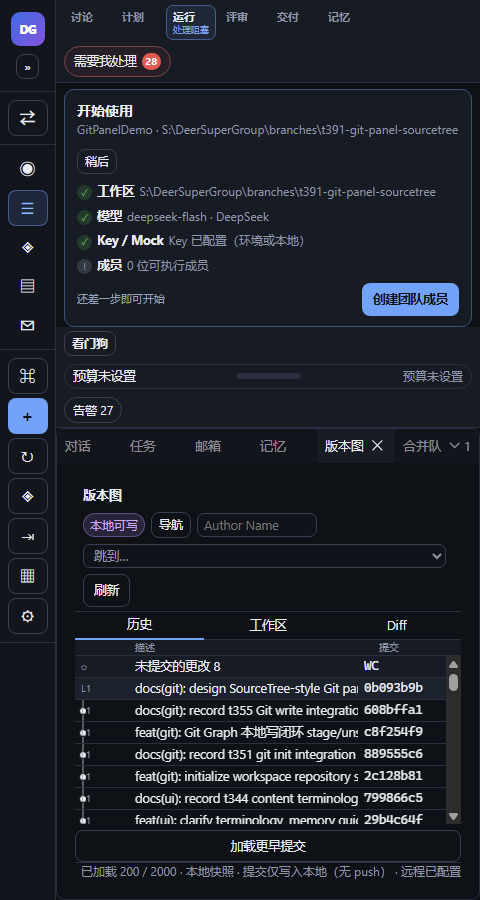
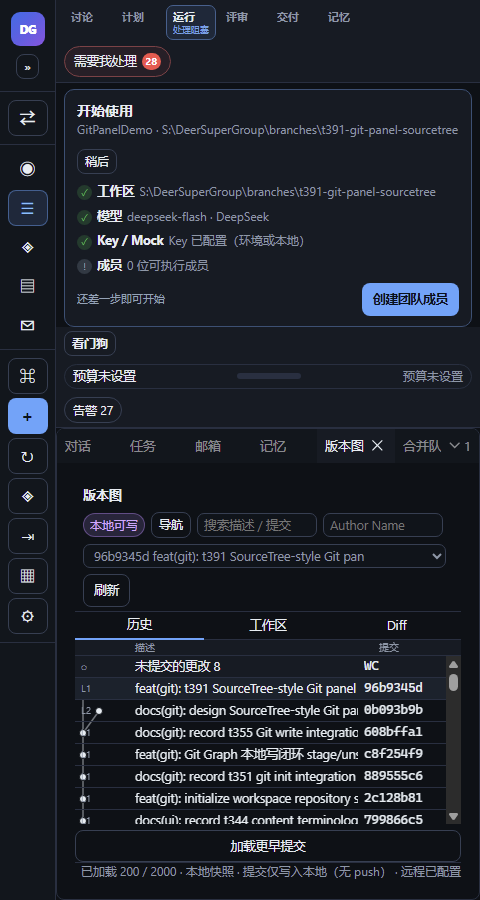
fix(git): t398 fix sort lanes and visible keyboard
Hides lane SVG/markers under non-topology date sort, binds commit search input, uses filtered commits with clamped Home/End/Arrow navigation, follows visible selection, and adds 480 nav-open screenshot/signature.

diff --git a/src/git/ui/GitGraphPanel.tsx b/src/git/ui/GitGraphPanel.tsx
@@ -72,6 +72,7 @@ export default function GitGraphPanel({
   const [navOpen, setNavOpen] = useState(false);
   const [refSearch, setRefSearch] = useState("");
   const filterInputRef = useRef<HTMLInputElement | null>(null);
+  const commitSearchRef = useRef<HTMLInputElement | null>(null);
   const [refFilter, setRefFilter] = useState<string | null>(null);
   const [loading, setLoading] = useState(true);
   const [busy, setBusy] = useState(false);
@@ -368,29 +369,37 @@ export default function GitGraphPanel({
     return result;
   }, [graph, filter, authorSearch, sortMode]);
 
-  const commitBySha = useMemo(() => {
-    const map = new Map<string, (NonNullable<typeof graph>["commits"][number])>();
-    for (const commit of graph?.commits ?? []) map.set(commit.sha, commit);
-    return map;
-  }, [graph]);
+  // t398：过滤/排序后若选中提交已不可见，Inspector 跟随第一个可见提交，避免显示被过滤内容。
+  useEffect(() => {
+    if (commits.length === 0) return;
+    if (commits.some((commit) => commit.sha === selectedSha)) return;
+    const first = commits[0];
+    setSelectedSha(first.sha);
+    setJumpSha(first.sha);
+    void loadCommit(first.sha);
+  }, [commits, selectedSha, loadCommit]);
 
   const rows = useMemo(() => {
     return layoutGraph({ commits, maxLanes: 16 }).rows;
   }, [commits]);
+  // t398：日期排序不是拓扑顺序，lane 坐标无意义；只保留表格，不渲染假 lane。
+  const showLanes = sortMode === "topology";
 
   const onGraphKey = (event: React.KeyboardEvent<HTMLDivElement>) => {
-    if (!graph) return;
-    const index = Math.max(0, graph.commits.findIndex((commit) => commit.sha === selectedSha));
+    if (!graph || commits.length === 0) return;
+    const found = commits.findIndex((commit) => commit.sha === selectedSha);
+    const index = found >= 0 ? found : 0;
     let next = index;
-    if (event.key === "ArrowDown") next = Math.min(graph.commits.length - 1, index + 1);
+    if (event.key === "ArrowDown") next = Math.min(commits.length - 1, index + 1);
     else if (event.key === "ArrowUp") next = Math.max(0, index - 1);
     else if (event.key === "Home") next = 0;
-    else if (event.key === "End") next = graph.commits.length - 1;
+    else if (event.key === "End") next = commits.length - 1;
     else return;
     event.preventDefault();
-    const commit = graph.commits[next];
+    const commit = commits[next];
     if (commit) {
       setSelectedSha(commit.sha);
+      setJumpSha(commit.sha);
       rowRefs.current.get(commit.sha)?.focus();
     }
   };
@@ -522,6 +531,17 @@ export default function GitGraphPanel({
             </select>
           </label>
           <label className="git-st-search">
+            <span className="sr-only">搜索描述或提交</span>
+            <input
+              ref={commitSearchRef}
+              type="search"
+              value={filter}
+              placeholder="搜索描述 / 提交"
+              aria-label="搜索描述或提交"
+              onChange={(event) => setFilter(event.target.value)}
+            />
+          </label>
+          <label className="git-st-search">
             <span className="sr-only">Author Name 搜索</span>
             <input
               type="search"
@@ -570,7 +590,7 @@ export default function GitGraphPanel({
       ) : null}
       {loading && !graph ? <p className="git-graph-loading" role="status">加载版本图…</p> : null}
 
-      <div className={`git-st-layout ${navOpen ? "nav-open" : ""}`}>
+      <div className={`git-st-layout ${navOpen ? "nav-open" : ""} ${showLanes ? "" : "table-only"}`}>
         <aside
           className="git-st-nav"
           id="git-st-nav"
@@ -594,7 +614,7 @@ export default function GitGraphPanel({
             <button
               type="button"
               className={navFocus === "search" ? "active" : ""}
-              onClick={() => { setNavFocus("search"); filterInputRef.current?.focus(); }}
+              onClick={() => { setNavFocus("search"); commitSearchRef.current?.focus(); }}
             >
               Search
             </button>
@@ -697,37 +717,39 @@ export default function GitGraphPanel({
               <span className="git-st-col-author muted tiny">—</span>
               <span className="git-st-col-commit mono">WC</span>
             </button>
-            <div className="git-st-rows">
-              <svg
-                className="git-st-lanes"
-                aria-hidden="true"
-                width={Math.max(40, (graph?.layout.laneCount ?? 1) * 16 + 12)}
-                height={Math.max(0, rows.length * 22)}
-              >
-                {rows.map((row, rowIndex) => (
-                  <g key={row.sha}>
-                    {row.parentLanes.map((parent) => {
-                      const parentIndex = rows.findIndex((item) => item.sha === parent.sha);
-                      return (
-                        <line
-                          key={`${row.sha}-${parent.sha}`}
-                          x1={8 + row.lane * 16}
-                          y1={rowIndex * 22 + 11}
-                          x2={8 + parent.lane * 16}
-                          y2={parentIndex >= 0 ? parentIndex * 22 + 11 : rows.length * 22}
-                          className={`git-edge color-${row.color % 10}`}
-                        />
-                      );
-                    })}
-                    <circle
-                      cx={8 + row.lane * 16}
-                      cy={rowIndex * 22 + 11}
-                      r={3.5}
-                      className={`git-node color-${row.color % 10} ${row.sha === selectedSha ? "selected" : ""}`}
-                    />
-                  </g>
-                ))}
-              </svg>
+            <div className={`git-st-rows ${showLanes ? "" : "is-table-only"}`}>
+              {showLanes ? (
+                <svg
+                  className="git-st-lanes"
+                  aria-hidden="true"
+                  width={Math.max(40, (graph?.layout.laneCount ?? 1) * 16 + 12)}
+                  height={Math.max(0, rows.length * 22)}
+                >
+                  {rows.map((row, rowIndex) => (
+                    <g key={row.sha}>
+                      {row.parentLanes.map((parent) => {
+                        const parentIndex = rows.findIndex((item) => item.sha === parent.sha);
+                        return (
+                          <line
+                            key={`${row.sha}-${parent.sha}`}
+                            x1={8 + row.lane * 16}
+                            y1={rowIndex * 22 + 11}
+                            x2={8 + parent.lane * 16}
+                            y2={parentIndex >= 0 ? parentIndex * 22 + 11 : rows.length * 22}
+                            className={`git-edge color-${row.color % 10}`}
+                          />
+                        );
+                      })}
+                      <circle
+                        cx={8 + row.lane * 16}
+                        cy={rowIndex * 22 + 11}
+                        r={3.5}
+                        className={`git-node color-${row.color % 10} ${row.sha === selectedSha ? "selected" : ""}`}
+                      />
+                    </g>
+                  ))}
+                </svg>
+              ) : null}
               <div className="git-st-rows-list">
                 {commits.map((commit, index) => (
                   <button
@@ -752,7 +774,7 @@ export default function GitGraphPanel({
                     title={`${commit.subject}\n${commit.authorName} · ${commit.authorTime}`}
                   >
                     <span className="git-st-lane" aria-hidden="true">
-                      {rows[index] ? `L${rows[index]!.lane + 1}` : "·"}
+                      {showLanes && rows[index] ? `L${rows[index]!.lane + 1}` : ""}
                     </span>
                     <span className="git-st-subject ellipsis">
                       {commit.subject}

diff --git a/src/git/ui/GitGraphPanel.test.tsx b/src/git/ui/GitGraphPanel.test.tsx
@@ -703,4 +703,150 @@ describe("GitGraphPanel", () => {
       (globalThis as { window?: unknown }).window = previous;
     }
   });
+
+  it("t398 hides lanes under date sort and navigates only visible filtered commits", async () => {
+    const repo = {
+      workspaceId: "ws1",
+      workspacePath: "/tmp/repo",
+      root: "/tmp/repo",
+      headSha: "c".repeat(40),
+      branch: "main",
+      detached: false,
+      ahead: 0,
+      behind: 0,
+      baseBranch: "main",
+      remote: null,
+      shallow: false,
+      bare: false,
+      gitVersion: "2.40.0",
+      generatedAt: "2026-04-03T00:00:00Z",
+    };
+    const makeCommit = (shaChar: string, author: string, subject: string, time: string, parents: string[] = []) => ({
+      sha: shaChar.repeat(40),
+      shortSha: shaChar.repeat(8),
+      parents,
+      authorName: author,
+      authorTime: time,
+      committerTime: time,
+      subject,
+      refs: [],
+      lane: 0,
+      color: 0,
+      parentLanes: parents.map((sha, index) => ({ sha, lane: index + 1, kind: "merge" as const })),
+      openEdges: [],
+    });
+    const commits = [
+      makeCommit("a", "Mika", "feat: merge branch", "2026-04-03T10:00:00Z", ["b".repeat(40), "d".repeat(40)]),
+      makeCommit("b", "Ren", "fix: older", "2026-04-02T10:00:00Z"),
+      makeCommit("c", "Mika", "docs: newest", "2026-04-04T10:00:00Z"),
+    ];
+    const previous = (globalThis as { window?: unknown }).window;
+    (globalThis as { window?: unknown }).window = {
+      deer: {
+        gitRepo: async () => ({ ok: true, value: repo }),
+        gitGraph: async () => ({
+          ok: true,
+          value: {
+            repo,
+            commits,
+            refs: [],
+            graphVersion: "v1",
+            offset: 0,
+            limit: 200,
+            hasMore: false,
+            nextOffset: null,
+            totalLoaded: commits.length,
+            truncated: false,
+            layout: { laneCount: 3, maxLanes: 16, truncatedLanes: false },
+          },
+        }),
+        gitRefs: async () => ({ ok: true, value: { refs: [], worktrees: [], truncated: false } }),
+        gitCommit: async (_ws: string, sha: string) => ({
+          ok: true,
+          value: {
+            node: commits.find((commit) => commit.sha === sha) ?? commits[0],
+            body: "",
+            changedFiles: [],
+            stats: { files: 0, insertions: 0, deletions: 0 },
+            diff: { files: [], bytes: 0, truncated: false, binary: false, submodule: false },
+          },
+        }),
+        gitStatus: async () => ({
+          ok: true,
+          value: {
+            repo,
+            staged: [],
+            unstaged: [],
+            untracked: [],
+            conflicts: [],
+            submodules: [],
+            truncated: false,
+          },
+        }),
+        gitDiff: async () => ({ ok: false }),
+      },
+    };
+    try {
+      let renderer: ReturnType<typeof TestRenderer.create> | null = null;
+      await act(async () => {
+        renderer = TestRenderer.create(<GitGraphPanel workspaceId="ws1" />);
+        for (let index = 0; index < 8; index += 1) await Promise.resolve();
+      });
+      const root = renderer!.root;
+      const sort = root.findByProps({ "aria-label": "提交排序" });
+      await act(async () => {
+        (sort.props.onChange as (event: unknown) => void)({ target: { value: "date" } });
+        await Promise.resolve();
+      });
+      const dateJson = JSON.stringify(renderer!.toJSON());
+      expect(dateJson).not.toContain("git-st-lanes");
+      expect(dateJson).not.toMatch(/L[1-9]/);
+      const author = root
+        .findAllByType("input")
+        .find((input: any) => String(input.props["aria-label"]).includes("Author Name"));
+      await act(async () => {
+        (author!.props.onChange as (event: unknown) => void)({ target: { value: "Mika" } });
+        await Promise.resolve();
+      });
+      const listbox = root.findByProps({ role: "listbox" });
+      const options = () => root.findAllByProps({ role: "option" });
+      expect(options()).toHaveLength(2);
+      const selectedLabel = () =>
+        options().find((option: any) => option.props["aria-selected"])?.props["aria-label"];
+      await act(async () => {
+        listbox.props.onKeyDown({ key: "Home", preventDefault() {} });
+        await Promise.resolve();
+      });
+      expect(selectedLabel()).toContain("docs: newest");
+      await act(async () => {
+        listbox.props.onKeyDown({ key: "ArrowDown", preventDefault() {} });
+        await Promise.resolve();
+      });
+      expect(selectedLabel()).toContain("feat: merge branch");
+      await act(async () => {
+        listbox.props.onKeyDown({ key: "End", preventDefault() {} });
+        await Promise.resolve();
+      });
+      expect(selectedLabel()).toContain("feat: merge branch");
+      await act(async () => {
+        listbox.props.onKeyDown({ key: "ArrowDown", preventDefault() {} });
+        await Promise.resolve();
+      });
+      expect(selectedLabel()).toContain("feat: merge branch");
+
+      const search = root
+        .findAllByType("input")
+        .find((input: any) => input.props["aria-label"] === "搜索描述或提交");
+      await act(async () => {
+        (author!.props.onChange as (event: unknown) => void)({ target: { value: "" } });
+        (search!.props.onChange as (event: unknown) => void)({ target: { value: "older" } });
+        await Promise.resolve();
+      });
+      expect(JSON.stringify(renderer!.toJSON())).toContain("fix: older");
+      expect(JSON.stringify(renderer!.toJSON())).not.toContain("feat: merge branch");
+      renderer!.unmount();
+    } finally {
+      (globalThis as { window?: unknown }).window = previous;
+    }
+  });
 });

diff --git a/src/git/ui/gitSourceTree.css b/src/git/ui/gitSourceTree.css
@@ -201,6 +201,24 @@
   background: var(--panel-2);
 }
 
+/* t398：非拓扑排序只保留表格；不渲染假 lane / 行号。 */
+.git-st-layout.table-only .git-st-col-lane,
+.git-st-layout.table-only .git-st-lane {
+  display: none;
+}
+
+.git-st-layout.table-only .git-st-history-head,
+.git-st-layout.table-only .git-st-row {
+  grid-template-columns: minmax(160px, 1fr) 132px 150px 76px;
+}
+
+@container git-panel (max-width: 1099px) {
+  .git-st-layout.table-only .git-st-history-head,
+  .git-st-layout.table-only .git-st-row {
+    grid-template-columns: minmax(0, 1fr) 76px;
+  }
+}
+
 .git-st-rows {
   position: relative;
   min-height: 0;

diff --git a/src/git/ui/gitSourceTree.test.ts b/src/git/ui/gitSourceTree.test.ts
@@ -19,4 +19,10 @@ describe("t391 SourceTree responsive contract", () => {
     expect(css).toContain("overflow: auto;");
     expect(css).toContain(".mobile-view-workspace .git-st-inspector");
   });
+
+  it("t398 renders table-only layout without fake lanes under non-topology sort", () => {
+    expect(css).toContain(".git-st-layout.table-only .git-st-col-lane");
+    expect(css).toContain(".git-st-layout.table-only .git-st-history-head");
+    expect(css).toContain("grid-template-columns: minmax(160px, 1fr) 132px 150px 76px");
+  });
 });

diff --git a/docs/team/git-panel-sourcetree.md b/docs/team/git-panel-sourcetree.md
@@ -76,3 +76,26 @@
 
 - 仅 Git 面板 UI/CSS + 测试；无 IPC/schema/命令/权限/gate 变更。
 - 回滚 `GitGraphPanel` 布局与 `gitSourceTree.css` 即恢复旧三栏；G1 handlers 未改。
+
+## t398 repair round 2
+
+- **日期排序无假 lane**：`sortMode !== "topology"` 时不渲染 `.git-st-lanes` SVG 与 `Lx` 行号，历史退化为纯表格（`.git-st-layout.table-only`）；拓扑排序仍显示 lane。测试覆盖含 merge parentLanes 的日期排序 DOM。
+- **键盘使用可见列表**：`onGraphKey` 改用过滤/排序后的 `commits`，索引 clamp 到 0..length-1；过滤后选中项不可见时 Inspector 自动跟随第一个可见提交。测试覆盖 Author=Mika + 日期排序下 Home/ArrowDown/End/ArrowDown 与 `aria-selected`。
+- **commit 搜索**：原孤儿 `filter` 绑定到工具栏「搜索描述 / 提交」输入框（`aria-label`），测试验证过滤并自动更新 Inspector。
+- **480 导航打开态截图**：`docs/team/t391-git-panel-480-nav.png`。
+
+### 执行签名
+
+| 项 | 值 |
+|---|---|
+| 执行时间 | 2026-11-13 01:12 +08:00 |
+| 执行人 | ren |
+| 运行环境 | Electron + CDP，workspace = `branches/t391-git-panel-sourcetree` |
+| 1440 | 1440×1000 |
+| 960 | 960×1000 |
+| 480 | 480×900（历史 tab + 导航 popover 480×900） |
+| 产物 | t391-git-panel-1440.png / -960.png / -480.png / -480-nav.png |
+
+验证（HEAD 见 PR）：typecheck 0；build 0（449 modules）；test 串行 125 文件/895 用例。
+
+- `docs/team/t391-git-panel-480-nav.png`（480 导航 popover 打开态）
